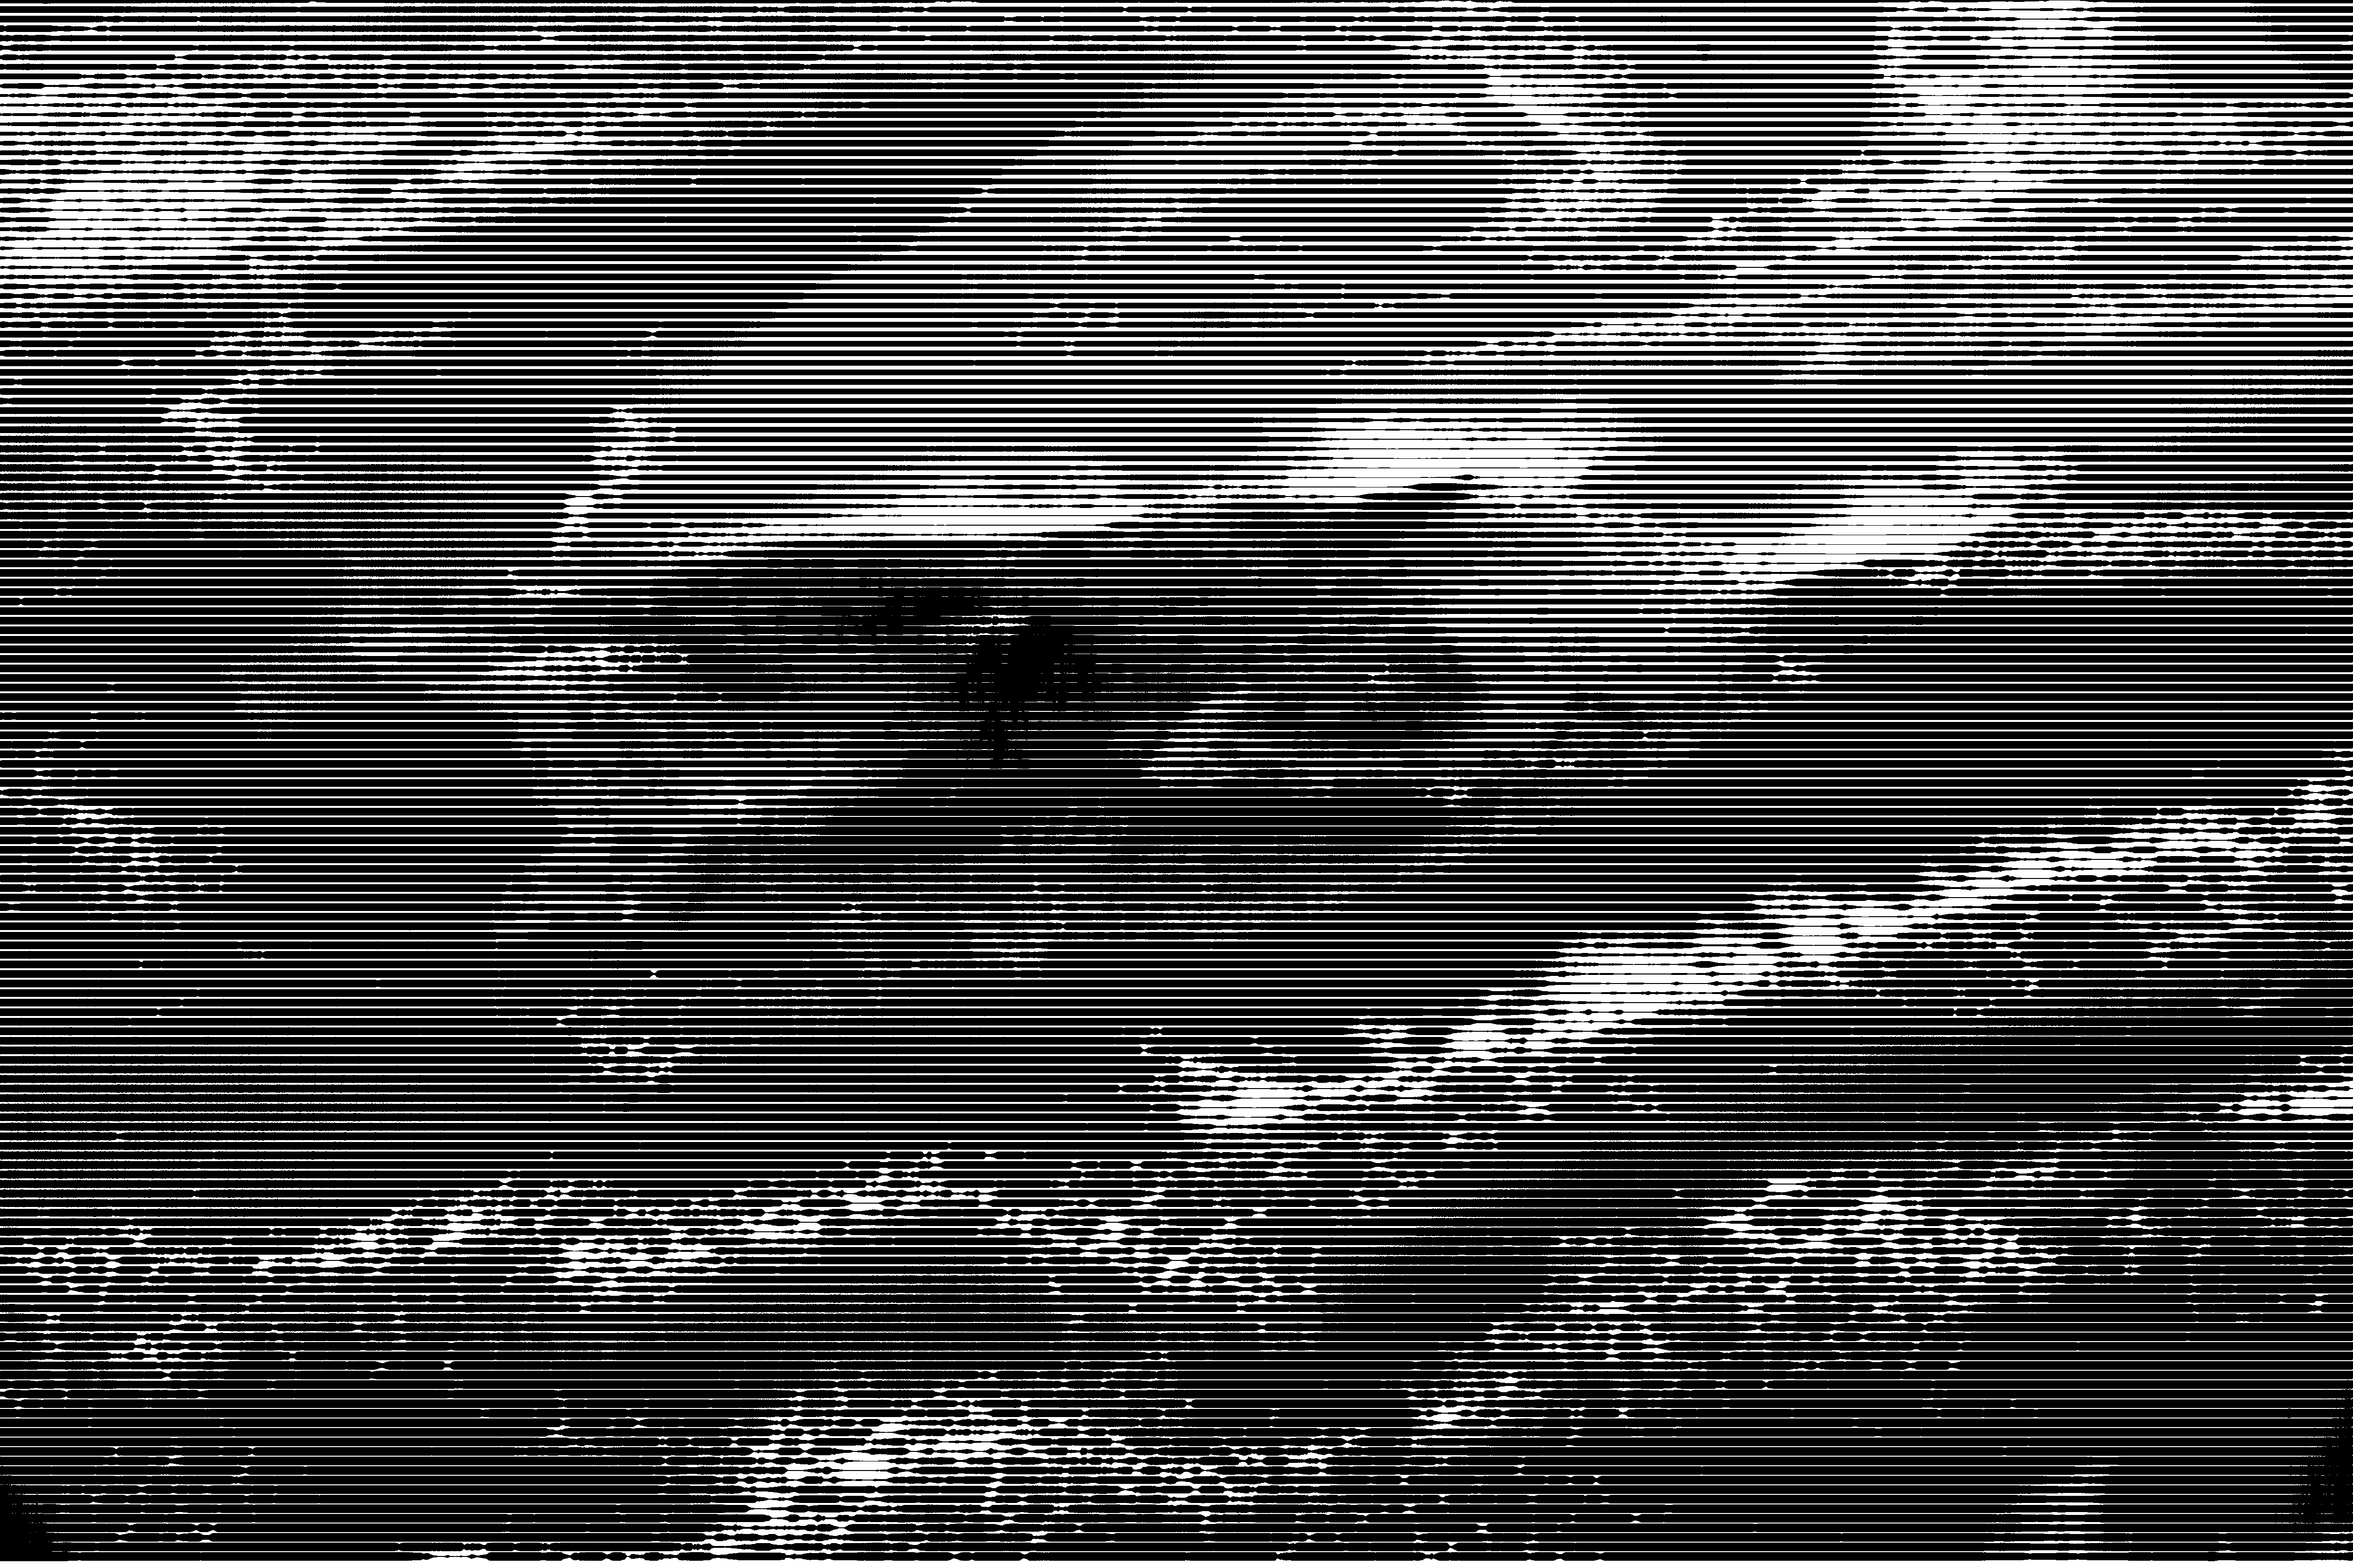
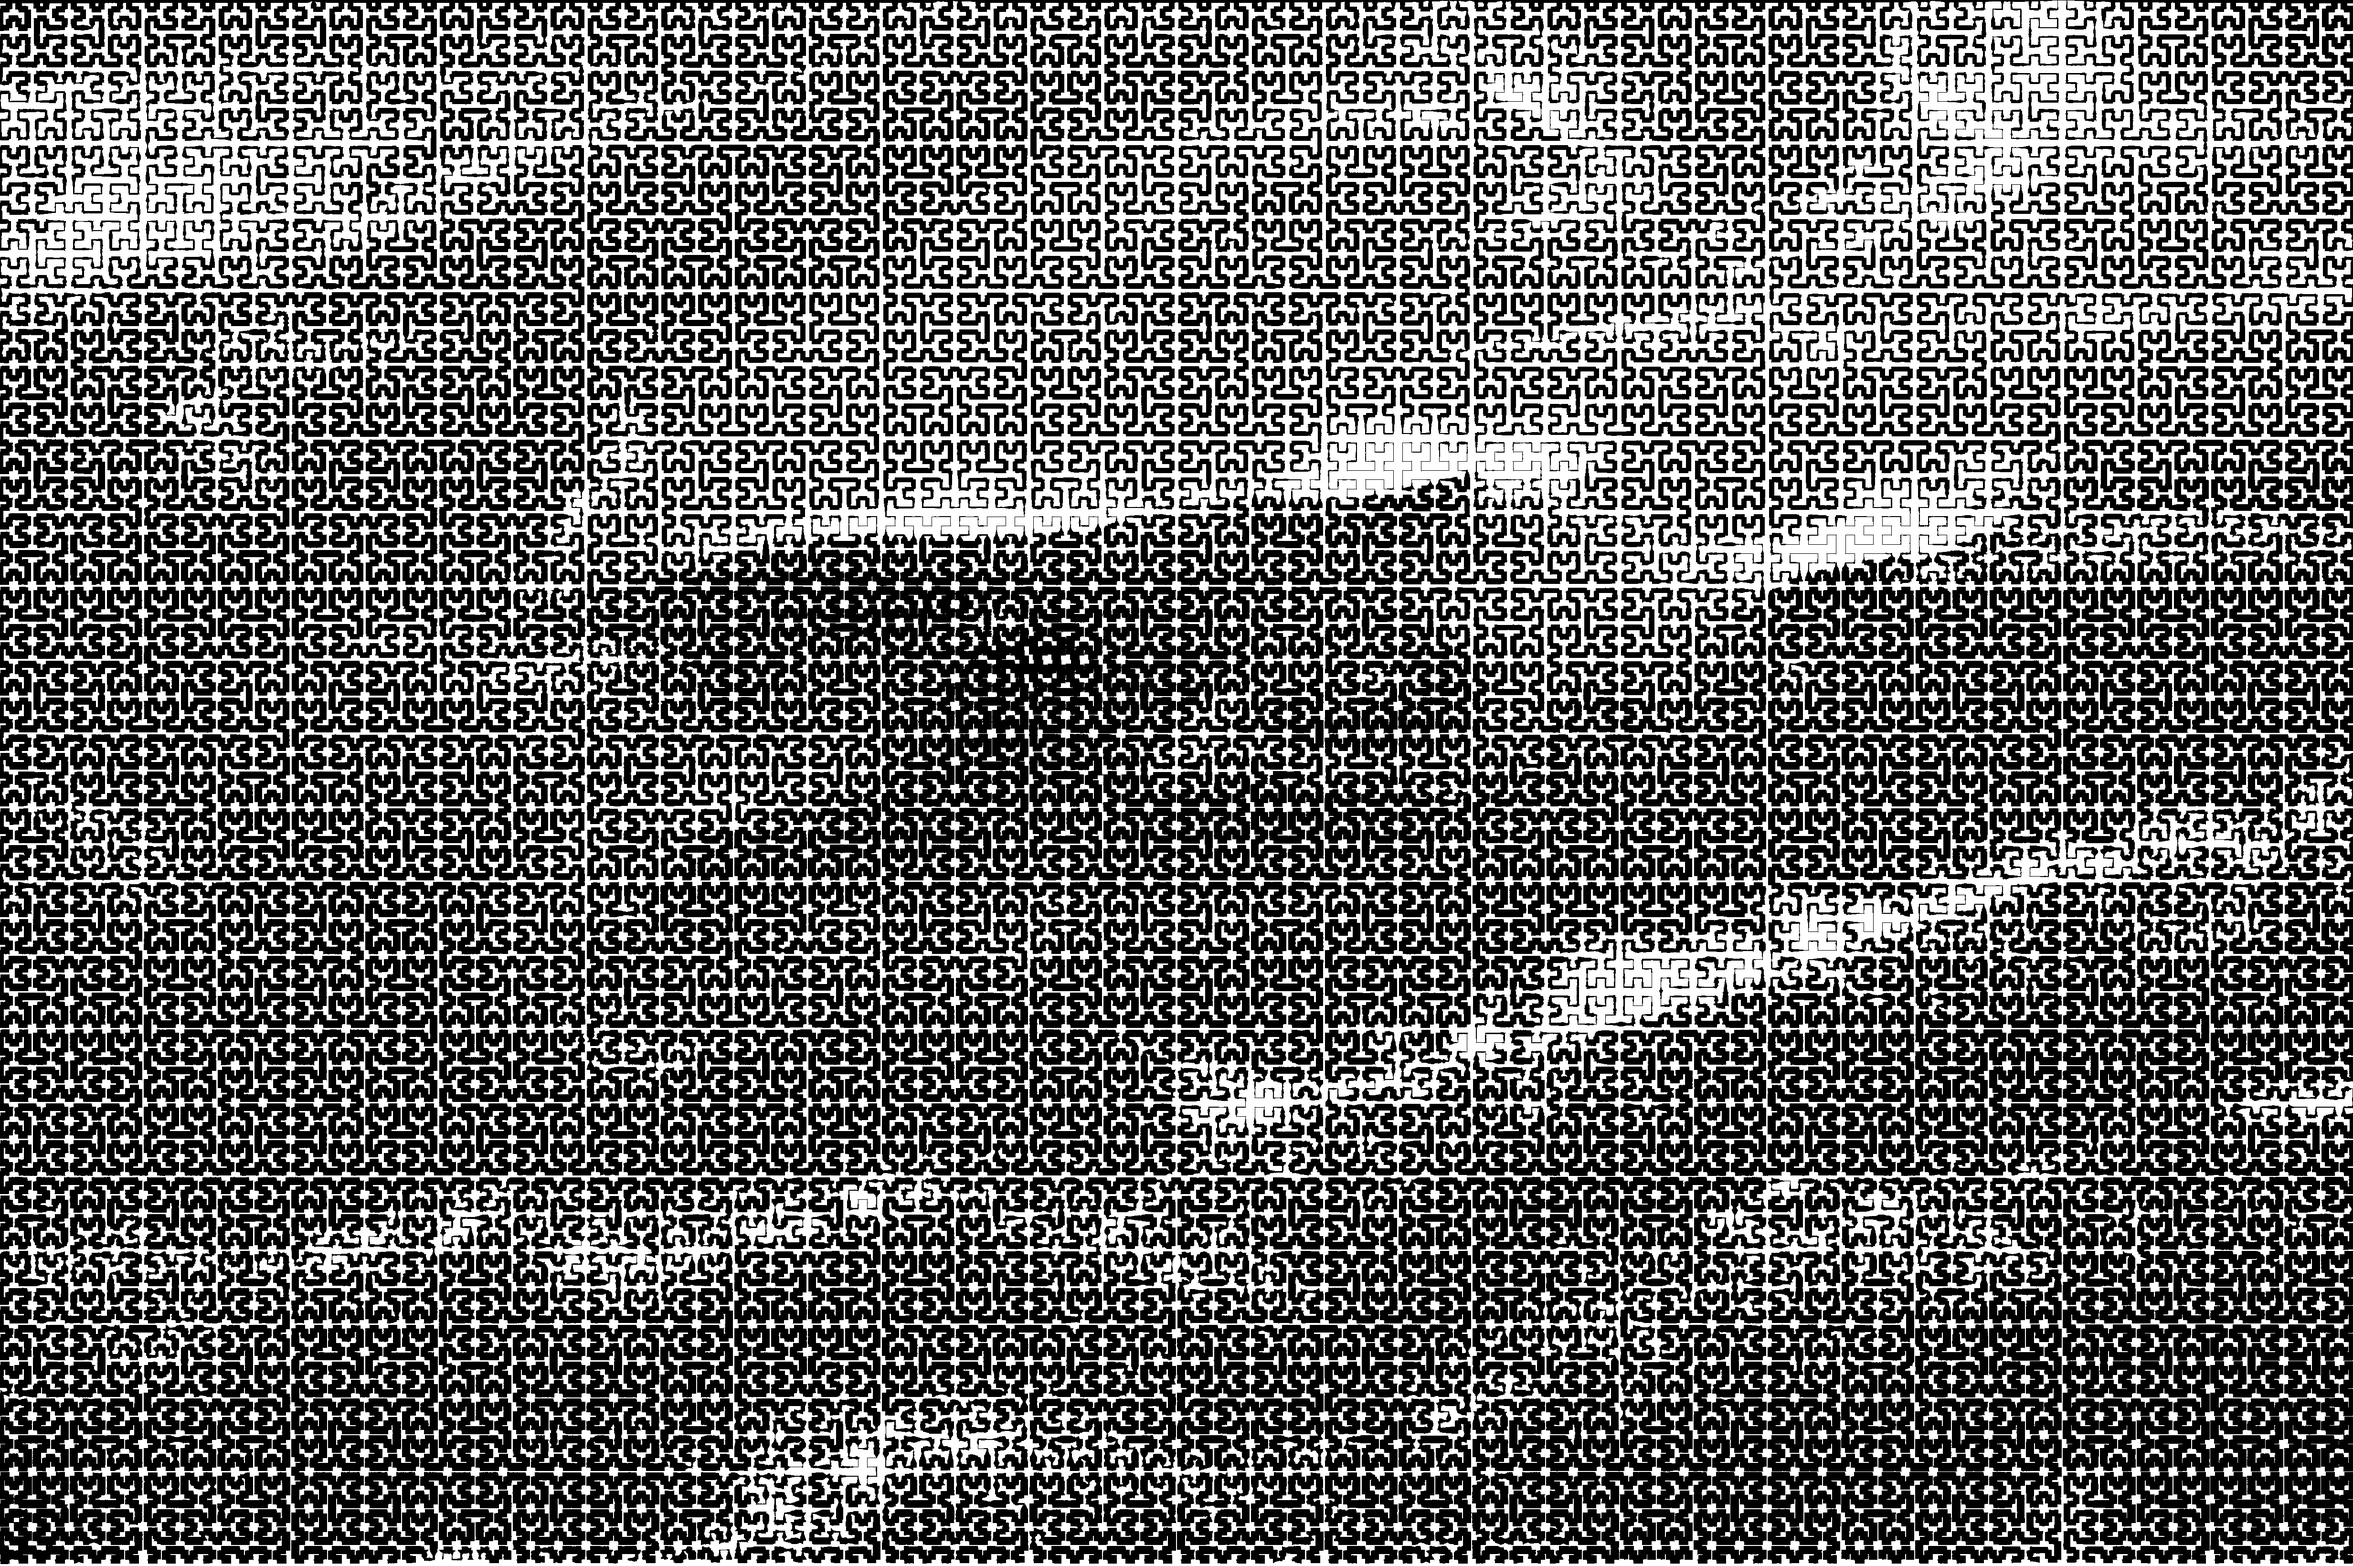
added hilbert curve for approximation and executable target

diff --git a/src/line_utils.rs b/src/line_utils.rs
@@ -3,6 +3,89 @@ use itertools::iproduct;
 use num::{traits::Euclid, Float};
 use num_traits::NumCast;
 
+pub trait Length<T>
+where
+    T: Float + Euclid + std::iter::Sum,
+{
+    fn get_total_length(&self) -> T;
+}
+
+impl<T> Length<T> for Vec<((T, T), (T, T))>
+where
+    T: Float + Euclid + std::iter::Sum,
+{
+    fn get_total_length(&self) -> T {
+        let two = T::from(2).unwrap();
+        self.iter()
+            .map(|(start, stop)| {
+                ((start.0 - stop.0).powf(two) + (start.1 - stop.1).powf(two)).sqrt()
+            })
+            .sum::<T>()
+    }
+}
+
+pub fn set_scale<T>(lines: &mut Vec<((T, T), (T, T))>, width: usize, height: usize)
+where
+    T: Float + Euclid,
+{
+    let min_x = lines
+        .iter()
+        .map(|(start, stop)| vec![start.0, stop.0])
+        .flatten()
+        .min_by(|a, b| a.partial_cmp(b).unwrap())
+        .unwrap();
+    let max_x = lines
+        .iter()
+        .map(|(start, stop)| vec![start.0, stop.0])
+        .flatten()
+        .max_by(|a, b| a.partial_cmp(b).unwrap())
+        .unwrap();
+    let min_y = lines
+        .iter()
+        .map(|(start, stop)| vec![start.1, stop.1])
+        .flatten()
+        .min_by(|a, b| a.partial_cmp(b).unwrap())
+        .unwrap();
+    let max_y = lines
+        .iter()
+        .map(|(start, stop)| vec![start.1, stop.1])
+        .flatten()
+        .max_by(|a, b| a.partial_cmp(b).unwrap())
+        .unwrap();
+
+    let width = T::from(width).unwrap();
+    let height = T::from(height).unwrap();
+    for (start, stop) in lines.iter_mut() {
+        start.0 = (start.0 - min_x) * width / (max_x - min_x);
+        stop.0 = (stop.0 - min_x) * width / (max_x - min_x);
+        start.1 = (start.1 - min_y) * height / (max_y - min_y);
+        stop.1 = (stop.1 - min_y) * height / (max_y - min_y);
+    }
+}
+
+pub fn crop_to_scale<T>(lines: &mut Vec<((T, T), (T, T))>, width: usize, height: usize)
+where
+    T: Float + Euclid,
+{
+    set_scale(lines, width.max(height), width.max(height));
+    let width = T::from(width).unwrap();
+    let height = T::from(height).unwrap();
+    lines.retain(|(start, stop)| {
+        if start.0 > width {
+            return false;
+        }
+        if stop.0 > width {
+            return false;
+        }
+        if start.1 > height {
+            return false;
+        }
+        if stop.1 > height {
+            return false;
+        }
+        true
+    });
+}
 /// Function emulates a line with thickness with multiple lines with thickness 1
 pub fn thicken_line<T>(start: &(T, T), stop: &(T, T), thickness: T) -> Vec<((T, T), (T, T))>
 where

diff --git a/src/hilbert_curve.rs b/src/hilbert_curve.rs
@@ -1,0 +1,72 @@
+use hilbert_index::FromHilbertIndex;
+
+use num::Float;
+use std::marker::PhantomData;
+
+
+#[derive(Clone, Copy, Debug)]
+pub struct HilbertCurve<T> {
+    order: usize,
+    _marker: PhantomData<T>,
+}
+
+pub struct HilbertCurveIterator<T>
+where
+    T: Float,
+{
+    hilbert_curve: HilbertCurve<T>,
+    index: usize,
+}
+
+
+impl<T> HilbertCurve<T>
+where
+    T: Float,
+{
+    pub fn new(order: usize) -> HilbertCurve<T> {
+        HilbertCurve {
+            order,
+            _marker: PhantomData {},
+        }
+    }
+}
+impl<T> Iterator for HilbertCurveIterator<T> where T:Float {
+    type Item = ((T, T), (T, T));
+
+    fn next(&mut self) -> Option<Self::Item> {
+        if self.index as i32-1 >= (2u32.pow(2u32 * self.hilbert_curve.order as u32)) as i32 {
+            return None;
+        }
+        let position_start: [usize; 2] =
+            self.index.from_hilbert_index(self.hilbert_curve.order.into());
+        let position_end: [usize; 2] =
+            (self.index + 1).from_hilbert_index(self.hilbert_curve.order.into());
+        self.index += 1;
+        Some((
+            (
+                T::from(position_start[0]).unwrap() / T::from(2u32.pow(self.hilbert_curve.order as u32)).unwrap(),
+                T::from(position_start[1]).unwrap() / T::from(2u32.pow(self.hilbert_curve.order as u32)).unwrap()
+            ),
+            (
+                T::from(position_end[0]).unwrap() / T::from(2u32.pow(self.hilbert_curve.order as u32)).unwrap(),
+                T::from(position_end[1]).unwrap() / T::from(2u32.pow(self.hilbert_curve.order as u32)).unwrap()
+            ),
+        ))
+    }
+}
+
+impl<T> IntoIterator for HilbertCurve<T>
+where
+    T: Float,
+{
+    type Item = ((T, T), (T, T));
+    type IntoIter = HilbertCurveIterator<T>;
+
+
+    fn into_iter(self) -> Self::IntoIter {
+        HilbertCurveIterator {
+            hilbert_curve: self,
+            index: 0,
+        }
+    }
+}

diff --git a/src/bin.rs b/src/bin.rs
@@ -1,0 +1,58 @@
+use clap::{Arg, Parser};
+use htree::HTree;
+use image::{ImageBuffer, Luma};
+use imageproc::drawing::draw_line_segment_mut;
+use line_approximator_lib::{
+    approximate,
+    line_utils::{crop_to_scale, thicken_line, Length, partition_line}, hilbert_curve,
+};
+use std::env;
+
+/// Program to approximate image with an HTree
+#[derive(Parser, Debug)]
+#[command(author, version, about, long_about = None)]
+struct Args {
+    /// Name of image input fname
+    input: String,
+
+    /// Number of fractal order
+    order: u8,
+
+    output: String,
+}
+
+pub fn main() {
+    let args = Args::parse();
+    let image = match image::open(args.input) {
+        Ok(image) => image.to_luma8(),
+        Err(err) => panic!("File could not be opened {:?}", err),
+    };
+    //let mut lines: Vec<((f32, f32), (f32, f32))> =
+    //    HTree::new(args.order as usize).into_iter().collect();
+
+    let mut lines: Vec<((f32, f32), (f32, f32))> =
+        hilbert_curve::HilbertCurve::new(args.order as usize).into_iter().collect();
+    crop_to_scale(&mut lines, image.width() as usize, image.height() as usize);
+    let total_length = lines.get_total_length();
+    let max_thickness = (image.width() * image.height()) as f32 / total_length;
+
+    let mut approximated_image: ImageBuffer<Luma<u8>, Vec<u8>> = ImageBuffer::new(image.width(), image.height());
+    approximated_image.fill(255u8);
+    let black = Luma([0u8]);
+
+
+    for (start, stop) in lines
+        .iter()
+        .map(|line|partition_line(&line.0, &line.1, 1f32))
+        .flatten()
+        .map(|(start, stop)| {
+            let thickness = approximate(&image, &start, &stop, max_thickness);
+            thicken_line(&start, &stop, thickness)
+        })
+        .flatten()
+    {
+        draw_line_segment_mut(&mut approximated_image, start, stop, black)
+    }
+
+    approximated_image.save(args.output).unwrap();
+}

diff --git a/tests/approximate_image_test.rs b/tests/approximate_image_test.rs
@@ -1,7 +1,7 @@
 use htree::HTree;
 use image::{self, ImageBuffer, Luma, DynamicImage};
 use imageproc::{drawing::{draw_line_segment_mut, draw_filled_rect_mut, draw_antialiased_line_segment}, rect::Rect};
-use line_approximator::{
+use line_approximator_lib::{
     approximate,
     line_utils::{length, partition_line, thicken_line},
 };

diff --git a/src/lib.rs b/src/lib.rs
@@ -1,7 +1,7 @@
 
 pub mod line_utils;
 mod image_utils;
-
+pub mod hilbert_curve;
 use image::{ImageBuffer, Luma};
 use itertools::iproduct;
 use crate::line_utils::{length,partition_line};
